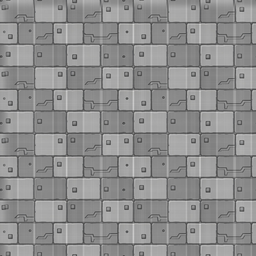
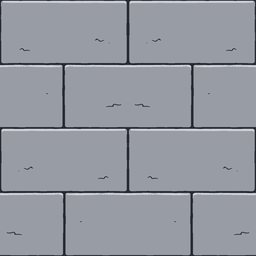
Спрайты шипов, пружины и воды в скине «Зелёные холмы».
Классическая отрисовка и физика не меняются. Бетон заменён на плоский тайл v2.

diff --git a/app/src/main/java/com/example/bible/ui/RedBallSpriteDraw.kt b/app/src/main/java/com/example/bible/ui/RedBallSpriteDraw.kt
@@ -31,6 +31,7 @@ import kotlin.math.atan2
 import kotlin.math.hypot
 import kotlin.math.max
 import kotlin.math.min
+import kotlin.math.roundToInt
 import kotlin.math.sin
 
 private const val SOIL_TILE = 128f
@@ -39,6 +40,14 @@ private const val GRASS_TILE_W = 144f
 private const val GRASS_CAP_FRACTION = 0.25f
 private const val GRASS_LIP = 26f
 private const val GRASS_EDGE_H = 34f
+private const val WATER_BODY_TILE = 160f
+private const val WATER_SURFACE_H = 34f
+private const val WATER_SURFACE_W = WATER_SURFACE_H * 4f
+private const val WATER_BODY_ALPHA = 0.85f
+/** Мировые единицы в секунду: полоска волн уезжает вбок, тело воды стоит. */
+private const val WATER_SCROLL = 26f
+/** Сколько держать сжатую пружину после того, как мяч уже отлип. */
+private const val SPRING_SQUASH_HOLD = 0.13f
 
 /** Крупный квадрат рисуется рогатым боссом. Обычный враг редактора — 80. */
 private const val BOSS_SIDE = 112f
@@ -52,6 +61,7 @@ private enum class SpritePortalMood { OPEN, EXIT, ASLEEP, LOST }
 /**
  * Кадр игры в спрайтовом скине. Небо — в пикселях экрана, мир — в координатах уровня.
  * Желе, кувырок врага, искры взрыва и цвета порталов остаются.
+ * Шипы, пружина и вода ямы — тоже спрайты главы. Классика их не вызывает.
  */
 internal fun DrawScope.drawSpritePlay(
     sim: RedBallSim,
@@ -67,7 +77,7 @@ internal fun DrawScope.drawSpritePlay(
         scale(scale, scale, pivot = Offset.Zero)
         translate(-camX, -camY)
     }) {
-        drawVoid(scene)
+        drawSpriteWater(scene, sim.anim, skin)
         val grounds = ArrayList<RedBallAabb>(scene.solids.size)
         for (solid in scene.solids) {
             if (solid.r <= scene.minX + 0.5f || solid.l >= scene.worldW - 0.5f) continue
@@ -75,8 +85,17 @@ internal fun DrawScope.drawSpritePlay(
         }
         drawSpriteTerrain(grounds, scene.slopes, scene.concrete, skin)
         for (ladder in scene.ladders) drawSpriteLadder(ladder, skin)
-        for (spike in scene.spikes) drawIronSpike(spike.x, spike.top, spike.w, spike.h)
-        for (spring in scene.springs) drawFairySpring(spring.l, spring.t, spring.r, spring.b)
+        for (spike in scene.spikes) drawSpriteSpikes(spike.x, spike.top, spike.w, spike.h, skin)
+        for ((index, spring) in scene.springs.withIndex()) {
+            drawSpriteSpring(
+                spring.l,
+                spring.t,
+                spring.r,
+                spring.b,
+                SpringSquash.showCompressed(sim, index),
+                skin,
+            )
+        }
         for (star in sim.stars) {
             if (!star.taken) drawSpriteStar(star.x, star.y, sim.anim, star.attached, skin)
         }
@@ -136,13 +155,14 @@ internal fun DrawScope.drawSpriteEditorWorld(
         val box = piece.spriteBox(cell)
         when (piece.kind) {
             RedBallPieceKind.LADDER -> drawSpriteLadder(box, skin)
-            RedBallPieceKind.SPIKE -> drawIronSpike(
+            RedBallPieceKind.SPIKE -> drawSpriteSpikes(
                 (box.l + box.r) / 2f,
                 box.t,
                 box.r - box.l,
                 box.b - box.t,
+                skin,
             )
-            RedBallPieceKind.SPRING -> drawFairySpring(box.l, box.t, box.r, box.b)
+            RedBallPieceKind.SPRING -> drawSpriteSpring(box.l, box.t, box.r, box.b, compressed = false, skin)
             RedBallPieceKind.CRATE -> drawSpriteCrate(
                 (box.l + box.r) / 2f,
                 (box.t + box.b) / 2f,
@@ -670,6 +690,114 @@ private fun DrawScope.drawHillDecor(
 }
 
 /**
+ * Шипы кладутся в ряд по ширине предмета. В PNG два шипа, период одного — половина кадра.
+ * Высота кадра равна высоте предмета, лишнее по краю обрезает сам прямоугольник.
+ */
+private fun DrawScope.drawSpriteSpikes(
+    x: Float,
+    top: Float,
+    w: Float,
+    h: Float,
+    skin: RedBallSkinBitmaps,
+) {
+    if (w < 2f || h < 2f) return
+    val image = skin.bitmap(RedBallSkinSlot.SPIKES)
+    val periods = (w / (h * 0.5f)).roundToInt().coerceAtLeast(1)
+    val tileW = w / periods * 2f
+    val left = x - w / 2f
+    fillTiled(image, left, top, left + w, top + h, tileW, h, originX = left, originY = top)
+}
+
+/**
+ * Оба кадра пружины вписаны в один прямоугольник: низ и центр совпадают,
+ * сжатый кадр короче сверху. Симулятор не сообщает длительность удара,
+ * поэтому сжатие держится, пока мяч касается пружины, и ещё короткое время после.
+ */
+private fun DrawScope.drawSpriteSpring(
+    l: Float,
+    t: Float,
+    r: Float,
+    b: Float,
+    compressed: Boolean,
+    skin: RedBallSkinBitmaps,
+) {
+    val w = r - l
+    val h = b - t
+    if (w < 4f || h < 4f) return
+    val slot = if (compressed) RedBallSkinSlot.SPRING_COMPRESSED else RedBallSkinSlot.SPRING_IDLE
+    placeCentered(skin.bitmap(slot), (l + r) / 2f, (t + b) / 2f, w, h)
+}
+
+/** Яма: тело тайлится по всей глубине, сверху полоска волн медленно едет вбок. */
+private fun DrawScope.drawSpriteWater(scene: RedBallScene, time: Float, skin: RedBallSkinBitmaps) {
+    val line = scene.voidY - 6f
+    val bottom = scene.worldH + 60f
+    if (line >= bottom) return
+    val left = scene.minX - 80f
+    val right = scene.worldW + 80f
+    fillTiled(
+        skin.bitmap(RedBallSkinSlot.WATER_BODY),
+        left,
+        line,
+        right,
+        bottom,
+        WATER_BODY_TILE,
+        WATER_BODY_TILE,
+        alpha = WATER_BODY_ALPHA,
+    )
+    val overlap = WATER_SURFACE_H * 0.42f
+    val stripTop = line - (WATER_SURFACE_H - overlap)
+    val shift = wrapShift(time * WATER_SCROLL, WATER_SURFACE_W)
+    fillTiled(
+        skin.bitmap(RedBallSkinSlot.WATER_SURFACE),
+        left,
+        stripTop,
+        right,
+        stripTop + WATER_SURFACE_H,
+        WATER_SURFACE_W,
+        WATER_SURFACE_H,
+        originX = left - shift,
+        originY = stripTop,
+    )
+}
+
+/**
+ * Пока мяч лежит на пружине, кадр сжатый. После отрыва ещё [SPRING_SQUASH_HOLD] секунд.
+ * Часы сбрасываются, когда уровень перезапустили или сцена сменилась.
+ */
+private object SpringSquash {
+    private var sceneKey = ""
+    private var lastAnim = 0f
+    private var until = FloatArray(0)
+
+    fun showCompressed(sim: RedBallSim, index: Int): Boolean {
+        val springs = sim.scene.springs
+        if (index !in springs.indices) return false
+        val first = springs.first()
+        val last = springs.last()
+        val key = sim.scene.id + ":" + springs.size + ":" +
+            first.l.toBits() + ":" + first.t.toBits() + ":" +
+            last.r.toBits() + ":" + last.b.toBits()
+        val restarted = sim.anim + 0.0001f < lastAnim
+        if (key != sceneKey || restarted || until.size != springs.size) {
+            sceneKey = key
+            until = FloatArray(springs.size)
+        }
+        lastAnim = sim.anim
+        if (ballPressesSpring(sim, springs[index])) {
+            until[index] = sim.anim + SPRING_SQUASH_HOLD
+        }
+        return sim.anim < until[index]
+    }
+}
+
+private fun ballPressesSpring(sim: RedBallSim, spring: RedBallAabb): Boolean {
+    val radius = RedBallScene.BALL_R
+    return sim.ballX + radius > spring.l && sim.ballX - radius < spring.r &&
+        sim.ballY + radius > spring.t && sim.ballY - radius < spring.b
+}
+
+/**
  * Повтор PNG. Матрица шейдера увеличивает тайл до [tileW]×[tileH] мировых единиц
  * и ставит пиксель (0, 0) картинки в ([originX], [originY]), чтобы соседние блоки
  * сходились без шва. Шейдер создаётся на один прямоугольник и не делится между вызовами.
@@ -684,6 +812,7 @@ private fun DrawScope.fillTiled(
     tileH: Float,
     originX: Float = 0f,
     originY: Float = 0f,
+    alpha: Float = 1f,
 ) {
     if (right - left < 1f || bottom - top < 1f || tileW < 1f || tileH < 1f) return
     if (image.width < 1 || image.height < 1) return
@@ -692,7 +821,12 @@ private fun DrawScope.fillTiled(
     matrix.setScale(tileW / image.width, tileH / image.height)
     matrix.postTranslate(originX, originY)
     shader.setLocalMatrix(matrix)
-    drawRect(ShaderBrush(shader), Offset(left, top), Size(right - left, bottom - top))
+    drawRect(
+        ShaderBrush(shader),
+        Offset(left, top),
+        Size(right - left, bottom - top),
+        alpha = alpha,
+    )
 }
 
 private fun DrawScope.placeCentered(

diff --git a/app/src/test/java/com/example/bible/RedBallSkinTest.kt b/app/src/test/java/com/example/bible/RedBallSkinTest.kt
@@ -10,6 +10,7 @@ import org.junit.Assert.assertFalse
 import org.junit.Assert.assertTrue
 import org.junit.Test
 import java.io.File
+import java.nio.ByteBuffer
 
 class RedBallSkinTest {
 
@@ -69,7 +70,40 @@ class RedBallSkinTest {
         )
         assertTrue(partial.missingSlots().contains(RedBallSkinSlot.HERO_HAPPY))
         assertTrue(partial.missingSlots().contains(RedBallSkinSlot.BOSS))
+        assertTrue(partial.missingSlots().contains(RedBallSkinSlot.SPIKES))
+        assertTrue(partial.missingSlots().contains(RedBallSkinSlot.SPRING_IDLE))
+        assertTrue(partial.missingSlots().contains(RedBallSkinSlot.SPRING_COMPRESSED))
+        assertTrue(partial.missingSlots().contains(RedBallSkinSlot.WATER_SURFACE))
+        assertTrue(partial.missingSlots().contains(RedBallSkinSlot.WATER_BODY))
         assertEquals(RedBallSkinSlot.entries.size - 1, partial.missingSlots().size)
+    }
+
+    @Test
+    fun hazardSlotsUseTheShippedPngSizes() {
+        val chapter = RedBallSkins.greenHills
+        val assets = redballAssets()
+        val expected = listOf(
+            RedBallSkinSlot.SPIKES to Triple("sprites/spikes.png", 128, 128),
+            RedBallSkinSlot.SPRING_IDLE to Triple("sprites/spring_idle.png", 128, 128),
+            RedBallSkinSlot.SPRING_COMPRESSED to Triple("sprites/spring_compressed.png", 128, 128),
+            RedBallSkinSlot.WATER_SURFACE to Triple("tiles/water_surface.png", 256, 64),
+            RedBallSkinSlot.WATER_BODY to Triple("tiles/water_body.png", 256, 256),
+            RedBallSkinSlot.CONCRETE to Triple("tiles/concrete.png", 256, 256),
+        )
+        for ((slot, spec) in expected) {
+            val (relative, width, height) = spec
+            assertEquals(relative, chapter.files.getValue(slot))
+            val file = File(assets, chapter.assetPath(slot).removePrefix("redball/"))
+            val (actualW, actualH) = pngSize(file)
+            assertEquals("$slot width", width, actualW)
+            assertEquals("$slot height", height, actualH)
+        }
+        val concrete = File(assets, "green_hills/tiles/concrete.png")
+        assertTrue(
+            "бетон должен быть плоским тайлом v2, а не прежним тяжёлым PNG",
+            concrete.length() in 8_000L..30_000L,
+        )
+        assertEquals(null, RedBallSkins.chapter(RedBallSkinId.CLASSIC))
     }
 
     @Test
@@ -93,5 +127,15 @@ class RedBallSkinTest {
             left--
         }
         error("Не нашёл assets/redball от ${System.getProperty("user.dir")}")
+    }
+
+    private fun pngSize(file: File): Pair<Int, Int> {
+        val header = ByteArray(24)
+        file.inputStream().use { input -> assertEquals(24, input.read(header)) }
+        val buffer = ByteBuffer.wrap(header)
+        assertEquals(0x89.toByte(), buffer.get())
+        val width = buffer.getInt(16)
+        val height = buffer.getInt(20)
+        return width to height
     }
 }

diff --git a/app/src/main/java/com/example/bible/games/skins/RedBallSkin.kt b/app/src/main/java/com/example/bible/games/skins/RedBallSkin.kt
@@ -51,6 +51,11 @@ enum class RedBallSkinSlot {
     GRASS_EDGE,
     SOIL,
     LADDER,
+    SPIKES,
+    SPRING_IDLE,
+    SPRING_COMPRESSED,
+    WATER_SURFACE,
+    WATER_BODY,
     STAR,
     MAGNET,
     HEART,
@@ -106,7 +111,7 @@ object RedBallSkins {
         chapter = 1,
         assetRoot = "redball/green_hills",
         // Спрайты и иконки — мастера 2× (резче на плотном экране).
-        // Крупные тайлы (холмы, земля, небо, бетон, ящик) — финальные 1×.
+        // Крупные тайлы (холмы, земля, небо, бетон, вода, ящик) — финальные 1×.
         files = mapOf(
             RedBallSkinSlot.HERO_HAPPY to "sprites/hero_red_ball_happy.png",
             RedBallSkinSlot.HERO_SURPRISED to "sprites/hero_red_ball_surprised.png",
@@ -120,6 +125,11 @@ object RedBallSkins {
             RedBallSkinSlot.GRASS_EDGE to "tiles/grass_edge.png",
             RedBallSkinSlot.SOIL to "tiles/soil.png",
             RedBallSkinSlot.LADDER to "sprites/ladder.png",
+            RedBallSkinSlot.SPIKES to "sprites/spikes.png",
+            RedBallSkinSlot.SPRING_IDLE to "sprites/spring_idle.png",
+            RedBallSkinSlot.SPRING_COMPRESSED to "sprites/spring_compressed.png",
+            RedBallSkinSlot.WATER_SURFACE to "tiles/water_surface.png",
+            RedBallSkinSlot.WATER_BODY to "tiles/water_body.png",
             RedBallSkinSlot.STAR to "sprites/star.png",
             RedBallSkinSlot.MAGNET to "sprites/magnet.png",
             RedBallSkinSlot.HEART to "sprites/heart.png",
